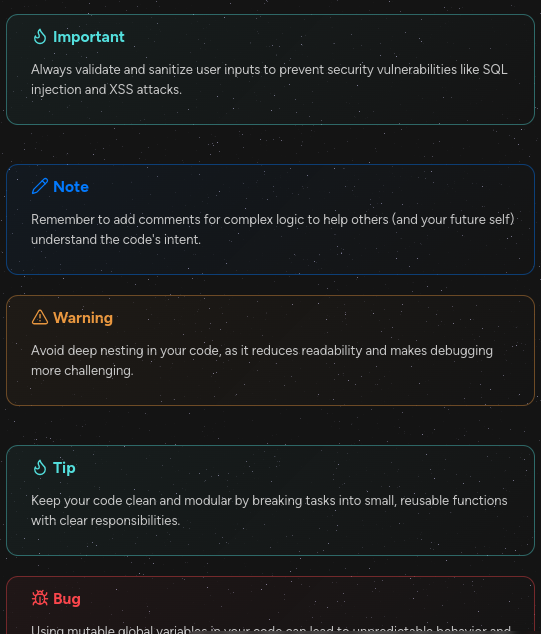
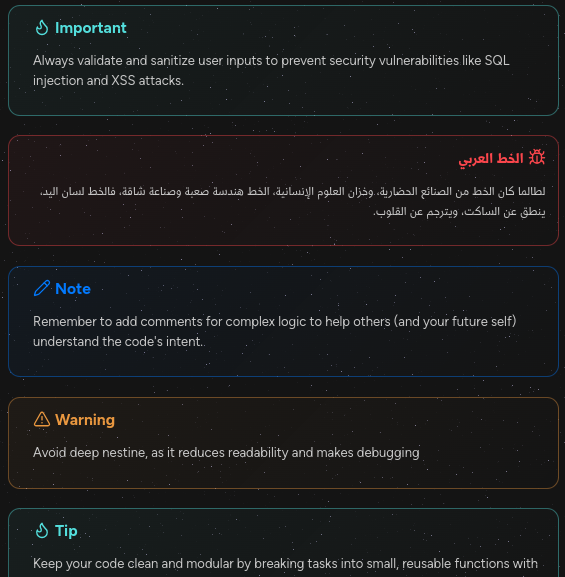
update: readme file

diff --git a/theme.css b/theme.css
@@ -1193,6 +1193,10 @@ button.mod-cta {
 .glass-robo-callouts .callout .callout-title .callout-title-inner {
   font-weight: bold !important;
 }
+.glass-robo-callouts .callout:has(> .callout-title .callout-title-inner:dir(rtl)) > .callout-title {
+  left: unset;
+  right: 15px;
+}
 .glass-robo-callouts .callout[data-callout=note] {
   border-color: #027aff;
 }

diff --git a/README.md b/README.md
@@ -214,6 +214,54 @@ I've made this theme primarily for my own purposes and it's completely free, but
       </details>
     </li>
   </ul>
+  <ul>
+    <li>
+     <details>
+      <summary>Hama style</summary>
+        <p>
+            <ul>
+              <p align="center"> <img src="assets/pics/callouts/sets/8.hama.png"></p>
+            </ul>
+        </p>
+      </details>
+    </li>
+  </ul>
+  <ul>
+    <li>
+     <details>
+      <summary>Homs style</summary>
+        <p>
+            <ul>
+              <p align="center"> <img src="assets/pics/callouts/sets/9.homs.png"></p>
+            </ul>
+        </p>
+      </details>
+    </li>
+  </ul>
+  <ul>
+    <li>
+     <details>
+      <summary>Sham style</summary>
+        <p>
+            <ul>
+              <p align="center"> <img src="assets/pics/callouts/sets/10.sham.png"></p>
+            </ul>
+        </p>
+      </details>
+    </li>
+  </ul>
+  <ul>
+    <li>
+     <details>
+      <summary>Halab style</summary>
+        <p>
+            <ul>
+              <p align="center"> <img src="assets/pics/callouts/sets/11.halab.png"></p>
+            </ul>
+        </p>
+      </details>
+    </li>
+  </ul>
 
 </details>
 <details>
@@ -293,16 +341,13 @@ I've made this theme primarily for my own purposes and it's completely free, but
   </ul>
 
 </details>
-<details>
-   <summary>8. Seven different styles for callouts.</summary>
 
-
-</details>
 
 ## Additional Features
 
 1. Stars background that gives the sensation of diving into space.
 2. Integration with <a href="https://github.com/mgmeyers/obsidian-style-settings">style settings</a> plugin, which controls some of the features in the theme, You can:
+   - Enable/disable Stars background.
    - Set background color.
    - Select headers color scheme.
    - Enable/disable custom fonts.
